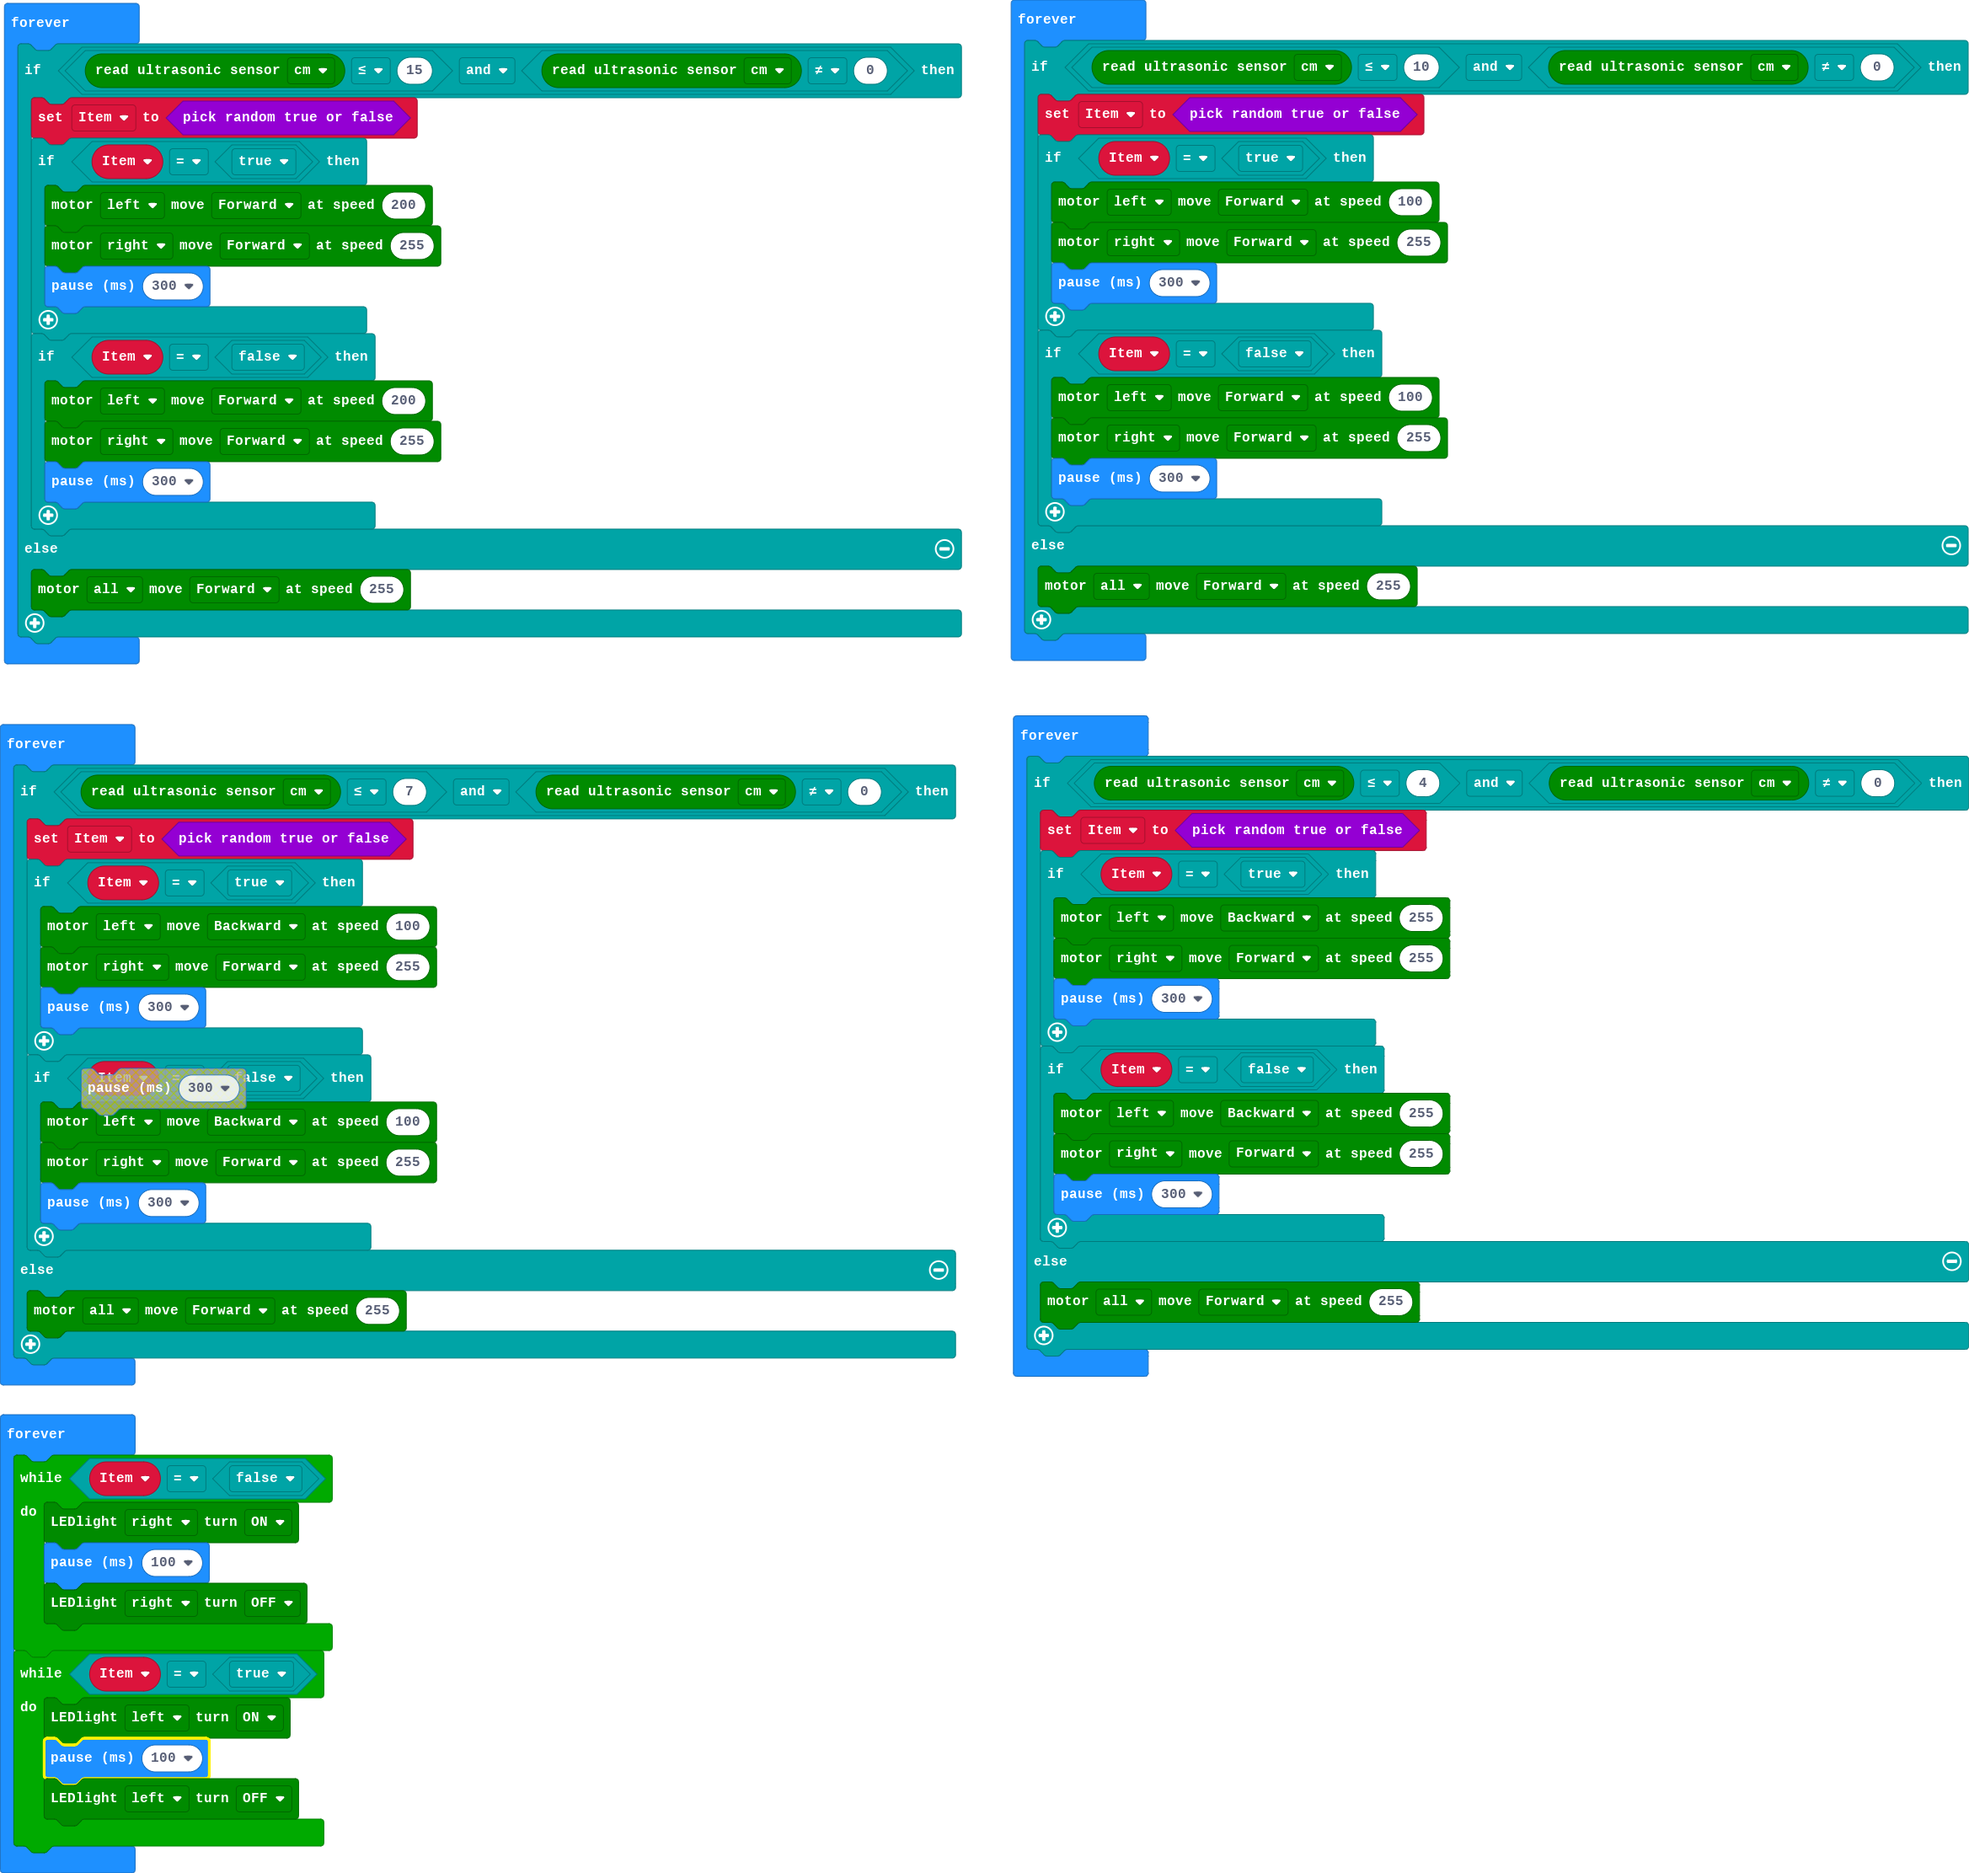
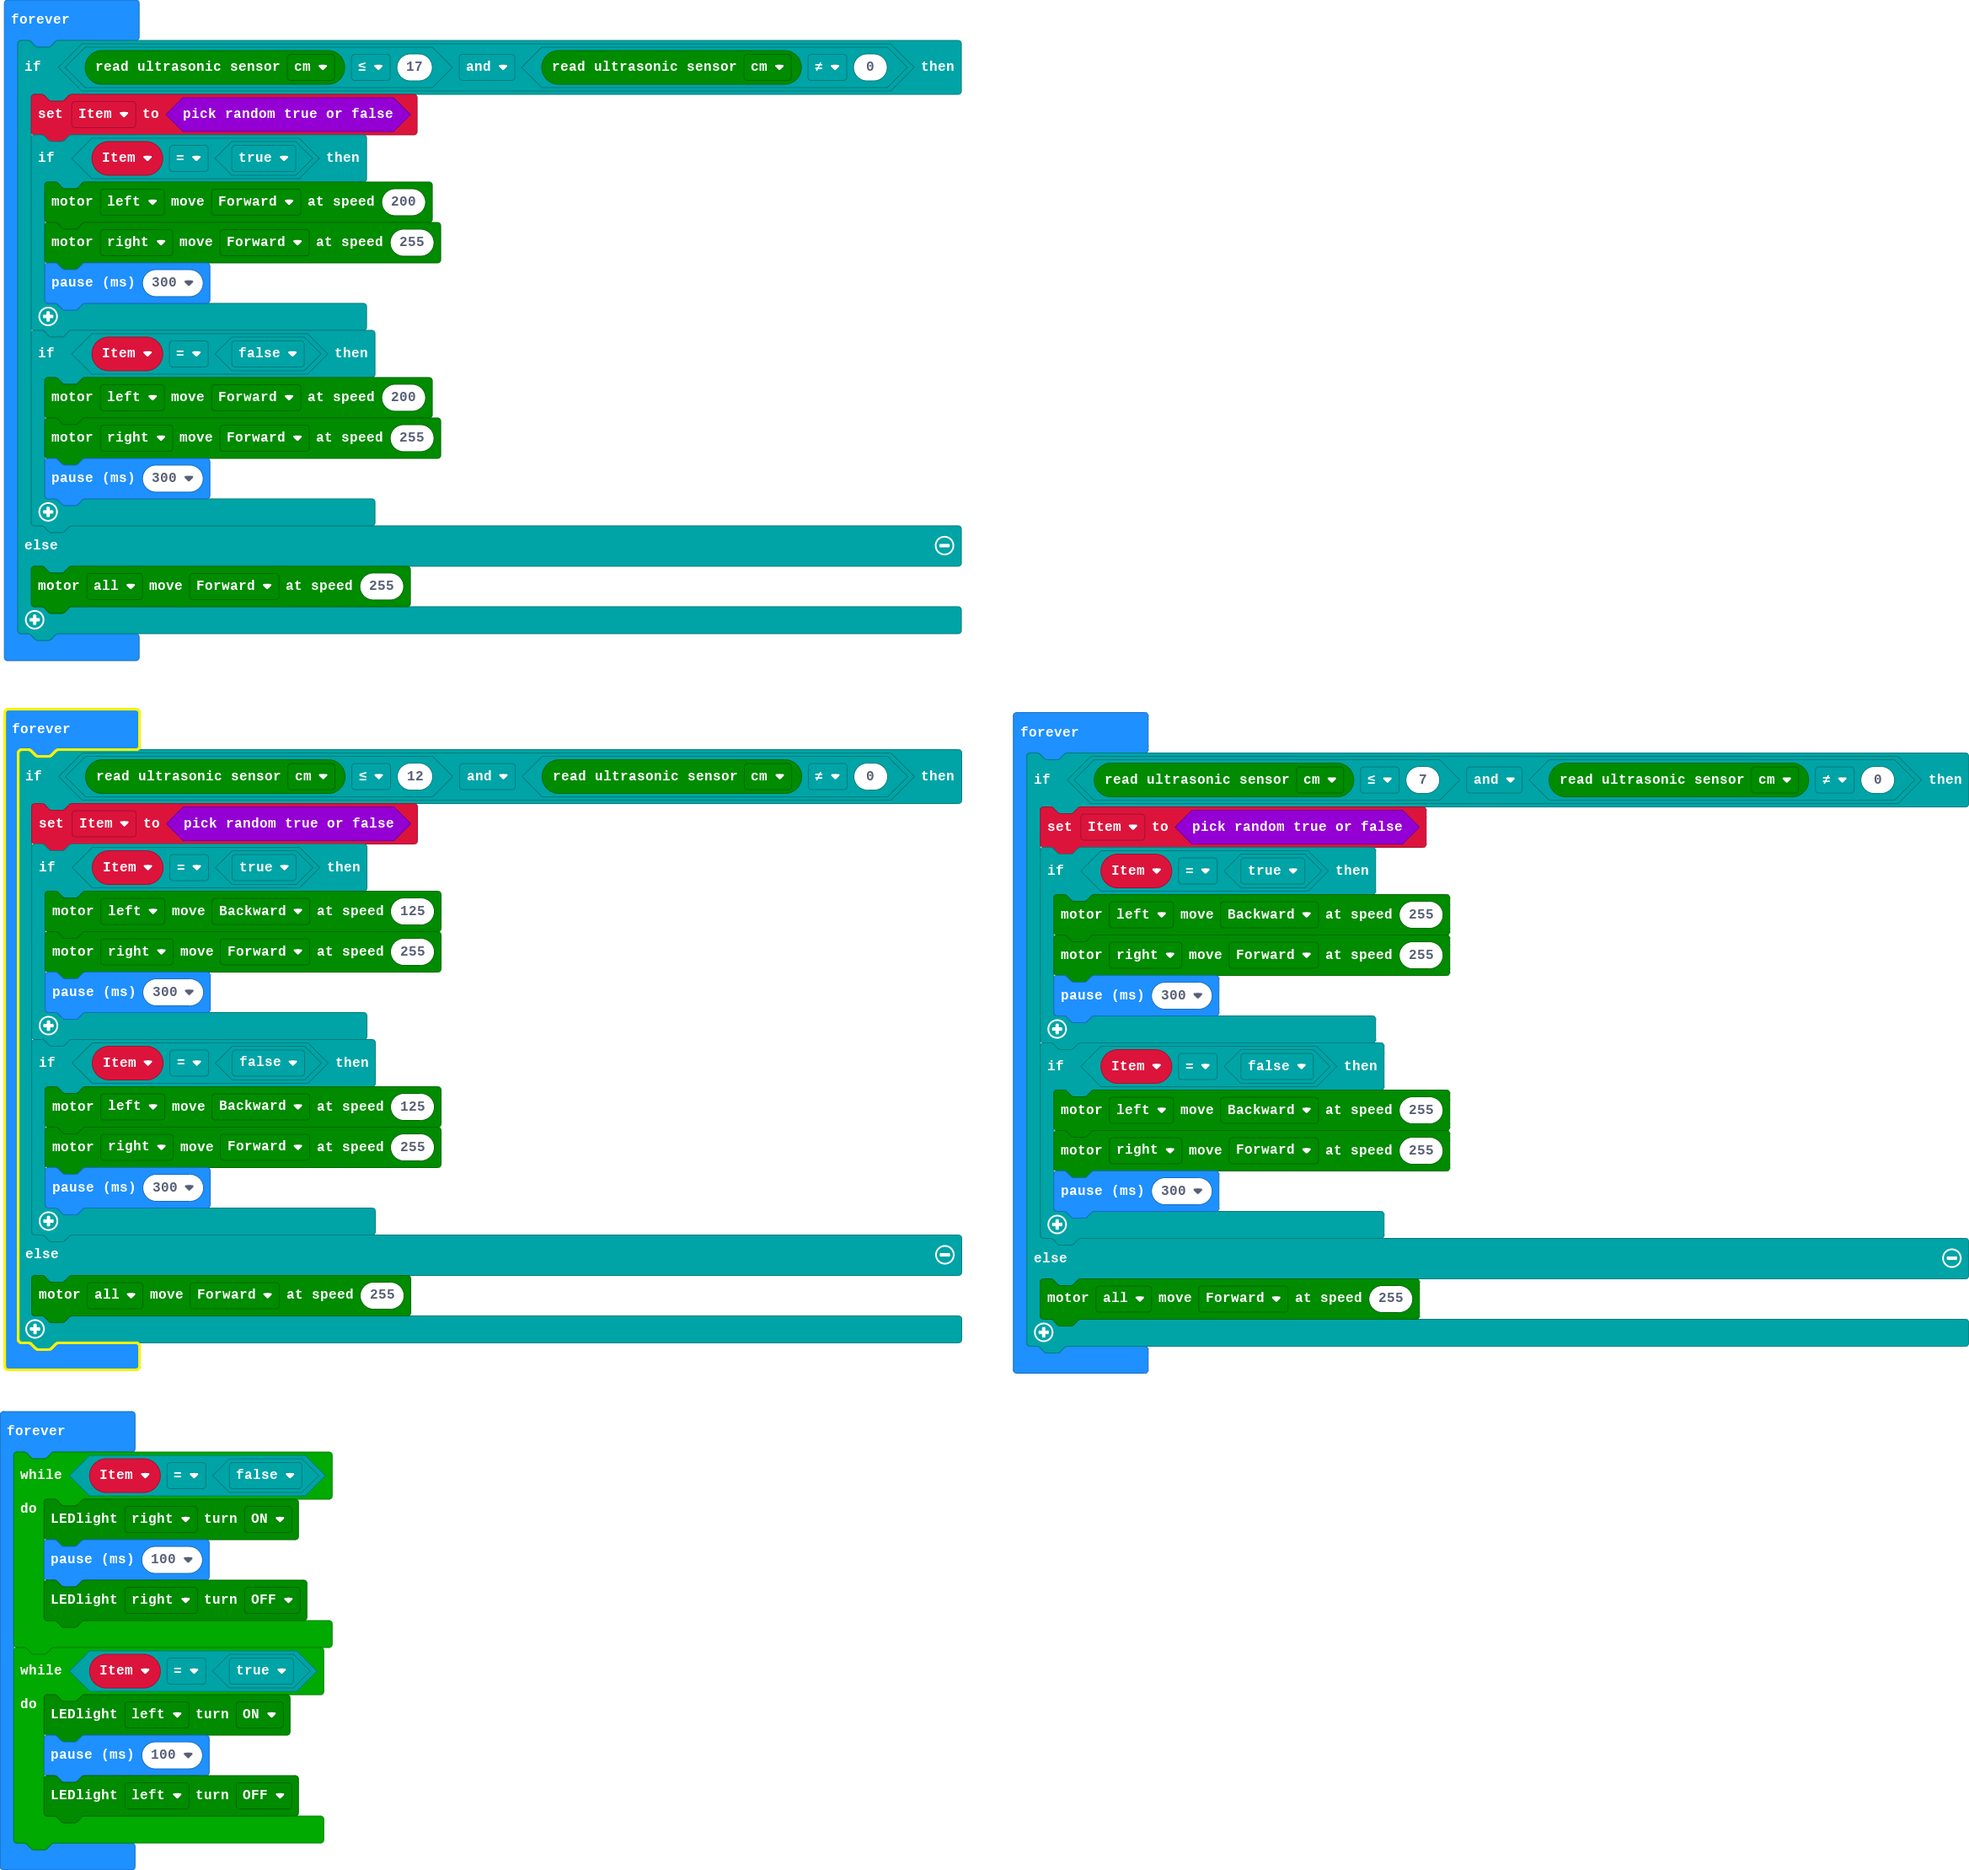
Update main.blocks, main.ts

diff --git a/main.ts b/main.ts
@@ -1,6 +1,6 @@
 let Item = false
 basic.forever(function () {
-    if (maqueen.Ultrasonic(PingUnit.Centimeters) <= 15 && maqueen.Ultrasonic(PingUnit.Centimeters) != 0) {
+    if (maqueen.Ultrasonic(PingUnit.Centimeters) <= 17 && maqueen.Ultrasonic(PingUnit.Centimeters) != 0) {
         Item = Math.randomBoolean()
         if (Item == true) {
             maqueen.motorRun(maqueen.Motors.M1, maqueen.Dir.CW, 200)
@@ -17,15 +17,15 @@ basic.forever(function () {
     }
 })
 basic.forever(function () {
-    if (maqueen.Ultrasonic(PingUnit.Centimeters) <= 10 && maqueen.Ultrasonic(PingUnit.Centimeters) != 0) {
+    if (maqueen.Ultrasonic(PingUnit.Centimeters) <= 12 && maqueen.Ultrasonic(PingUnit.Centimeters) != 0) {
         Item = Math.randomBoolean()
         if (Item == true) {
-            maqueen.motorRun(maqueen.Motors.M1, maqueen.Dir.CW, 100)
+            maqueen.motorRun(maqueen.Motors.M1, maqueen.Dir.CCW, 125)
             maqueen.motorRun(maqueen.Motors.M2, maqueen.Dir.CW, 255)
             basic.pause(300)
         }
         if (Item == false) {
-            maqueen.motorRun(maqueen.Motors.M1, maqueen.Dir.CW, 100)
+            maqueen.motorRun(maqueen.Motors.M1, maqueen.Dir.CCW, 125)
             maqueen.motorRun(maqueen.Motors.M2, maqueen.Dir.CW, 255)
             basic.pause(300)
         }
@@ -35,23 +35,6 @@ basic.forever(function () {
 })
 basic.forever(function () {
     if (maqueen.Ultrasonic(PingUnit.Centimeters) <= 7 && maqueen.Ultrasonic(PingUnit.Centimeters) != 0) {
-        Item = Math.randomBoolean()
-        if (Item == true) {
-            maqueen.motorRun(maqueen.Motors.M1, maqueen.Dir.CCW, 100)
-            maqueen.motorRun(maqueen.Motors.M2, maqueen.Dir.CW, 255)
-            basic.pause(300)
-        }
-        if (Item == false) {
-            maqueen.motorRun(maqueen.Motors.M1, maqueen.Dir.CCW, 100)
-            maqueen.motorRun(maqueen.Motors.M2, maqueen.Dir.CW, 255)
-            basic.pause(300)
-        }
-    } else {
-        maqueen.motorRun(maqueen.Motors.All, maqueen.Dir.CW, 255)
-    }
-})
-basic.forever(function () {
-    if (maqueen.Ultrasonic(PingUnit.Centimeters) <= 4 && maqueen.Ultrasonic(PingUnit.Centimeters) != 0) {
         Item = Math.randomBoolean()
         if (Item == true) {
             maqueen.motorRun(maqueen.Motors.M1, maqueen.Dir.CCW, 255)
